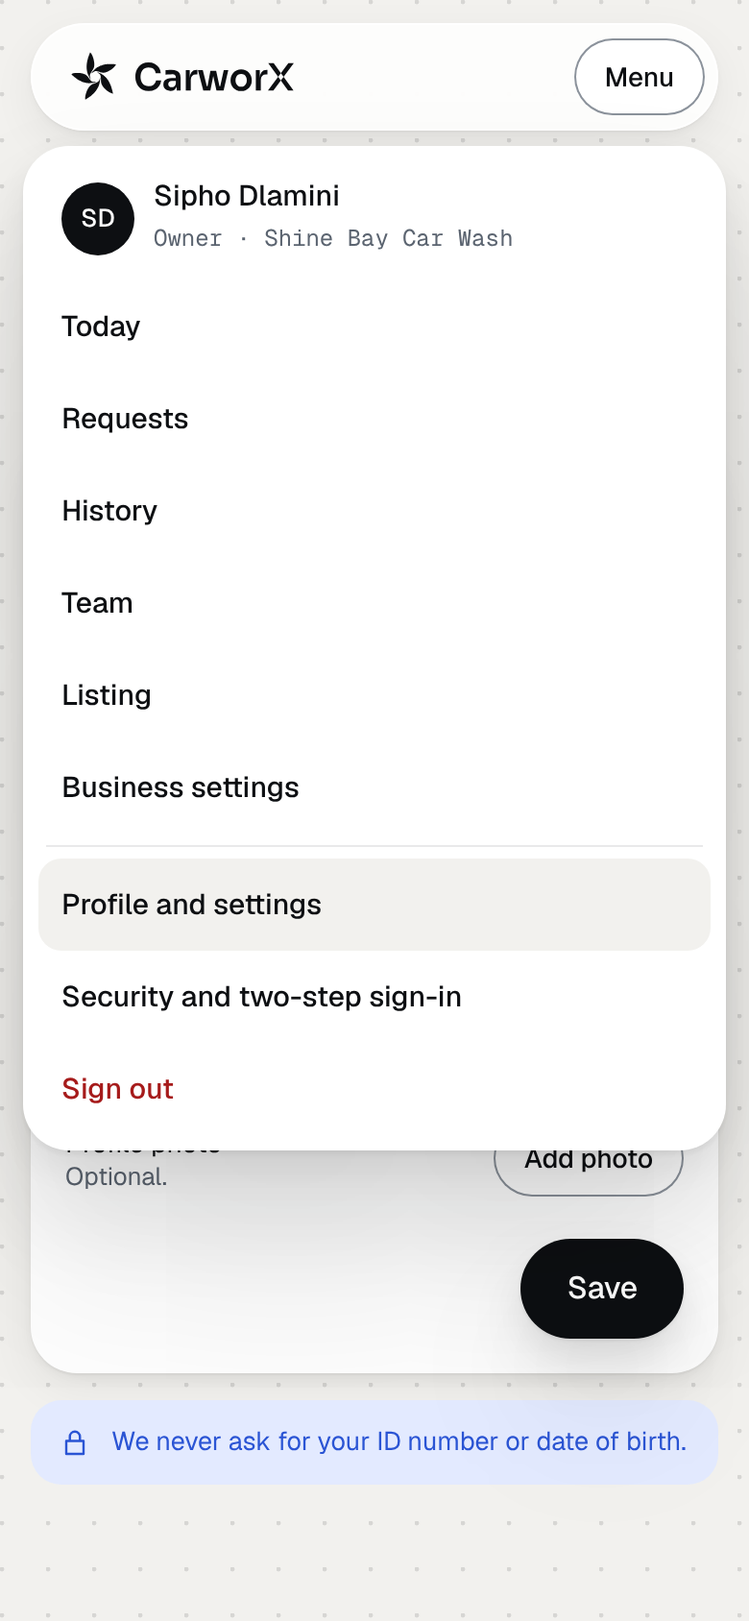
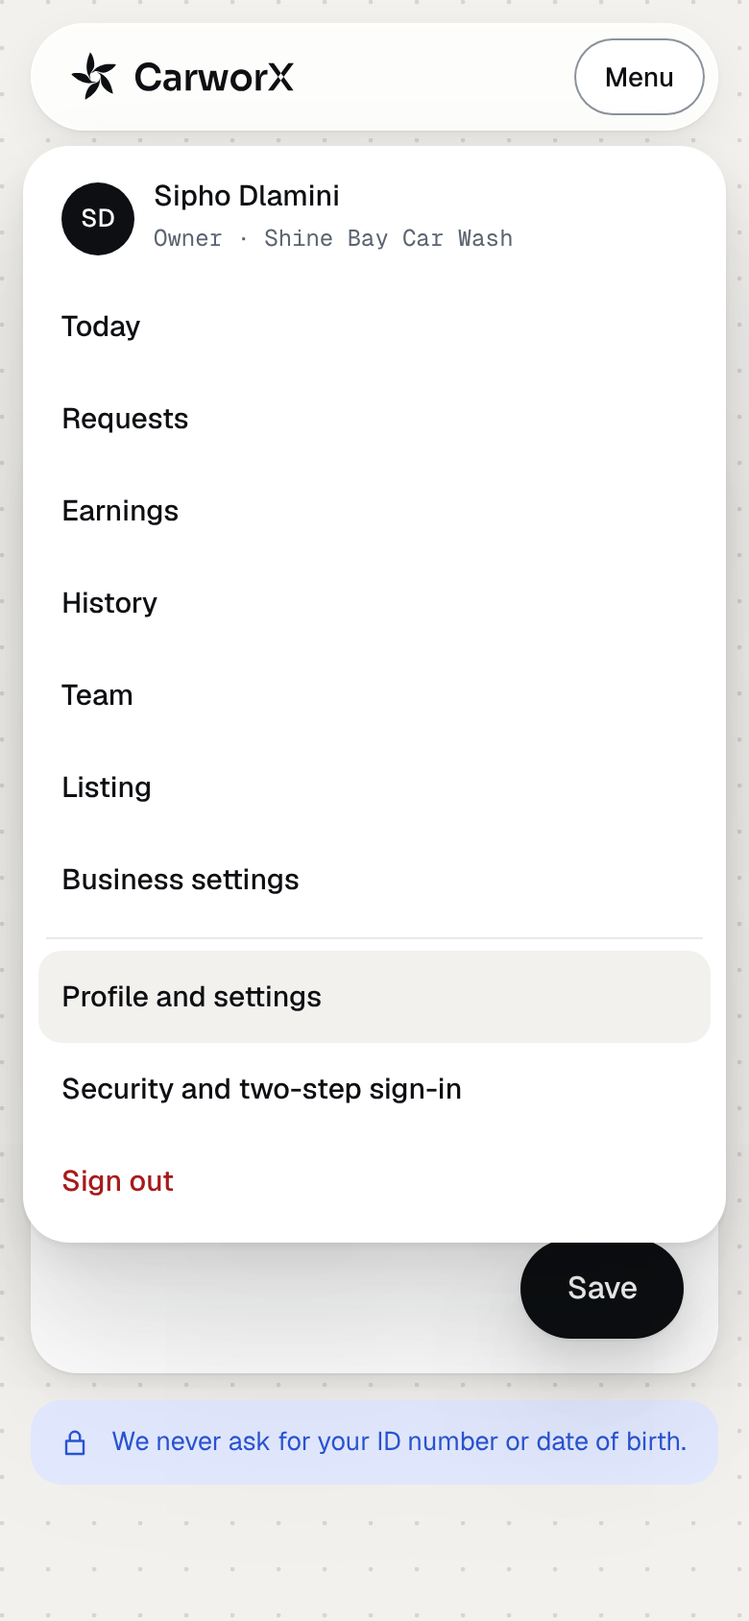
Add earnings for businesses and Money for admins
One shared money view: an all-time hero figure, a period filter bar
(past week, month, year, custom), stat tiles with the arrow, sign and
percentage change against the previous period of the same length, a
column chart with hover and keyboard tooltips and a table view, and
ranked breakdowns. Owners and managers get Earnings in the menu.
Admins get a Today glance and a Money page (booking value across
businesses, CarworX fees shown as R0 in the pilot, top businesses),
plus earnings on each business record. Synthetic data.

Agent: claude
Claude-Session: https://claude.ai/code/session_01Mv3uQScUEXqrnHEZgfxhwV

diff --git a/planning/design/onboarding/_shared/money.js b/planning/design/onboarding/_shared/money.js
@@ -1,0 +1,174 @@
+/* CarworX money view (prototype, synthetic data). One component for businesses and admins:
+ * an all-time hero figure, a period filter bar (past week / month / year / custom), stat
+ * tiles with the change against the previous period of the same length, a column chart
+ * with hover + keyboard tooltips and a table view, and ranked breakdown bars.
+ * Usage: MONEY.mount(el, { scope: "business" | "platform" | "one", name, seed }). */
+(() => {
+  const { esc } = window.OB;
+  const DAY = 864e5;
+  const TODAY = Date.UTC(2026, 10, 12); // 12 Nov 2026 (SAST date)
+  const START = Date.UTC(2024, 10, 12); // synthetic history starts two years back
+  const rand = (seed) => () => ((seed = (seed + 0x6d2b79f5) | 0), (((seed ^ (seed >>> 15)) * (1 | seed)) >>> 0) / 4294967296);
+  const R = (n) => "R" + Math.round(n).toLocaleString("en-ZA").replace(/,/g, " ");
+  const Rk = (n) => (n >= 1e6 ? `R${(n / 1e6).toFixed(n >= 1e7 ? 0 : 1)}m` : n >= 1e3 ? `R${Math.round(n / 1e3)}k` : R(n));
+  const N = (n) => Math.round(n).toLocaleString("en-ZA").replace(/,/g, " ");
+  const fmtD = (t, o) => new Date(t).toLocaleDateString("en-ZA", { timeZone: "UTC", ...o });
+
+  // Daily synthetic series: weekly rhythm, growth, noise. Platform = many businesses.
+  function series(scope, seed) {
+    const rnd = rand(seed);
+    const days = [];
+    const big = scope === "platform";
+    for (let t = START, i = 0; t <= TODAY; t += DAY, i++) {
+      const dow = new Date(t).getUTCDay();
+      const growth = 1 + (i / 730) * (big ? 1.6 : 0.45);
+      const week = [1.25, 0.7, 0.85, 0.9, 1, 1.15, 1.45][dow];
+      const avg = big ? 310 : 290;
+      const n = Math.max(0, Math.round((big ? 160 : 5.2) * growth * week * (0.75 + rnd() * 0.5)));
+      days.push({ t, n, v: n * avg * (0.85 + rnd() * 0.3), biz: big ? Math.round(18 + i * 0.16) : 0 });
+    }
+    return days;
+  }
+  const SPLIT = {
+    business: [["By service", [["Wash & Detailing", 0.71], ["Glass Repair & Replacement", 0.29]]], ["By team member", [["Lerato", 0.46], ["Thabo", 0.39], ["Sipho", 0.15]]]],
+    one: [["By service", [["Wash & Detailing", 0.71], ["Glass Repair & Replacement", 0.29]]]],
+    platform: [["Top businesses", [["Karoo Glass Fix", 0.09, "KG"], ["Pinetown Valet Co.", 0.075, "PV"], ["Shine Bay Car Wash", 0.06], ["Jacaranda Tyre & Align", 0.055], ["Kloof Detailing", 0.04]]], ["By service", [["Wash & Detailing", 0.38], ["Repairs & Maintenance", 0.27], ["Tyres & Wheel Alignment", 0.17], ["Glass Repair & Replacement", 0.12], ["Fines & Vehicle Admin", 0.06]]]],
+  };
+
+  function sum(days, a, b) {
+    let v = 0, n = 0, biz = 0;
+    for (const d of days) if (d.t >= a && d.t <= b) (v += d.v), (n += d.n), (biz = Math.max(biz, d.biz));
+    return { v, n, biz };
+  }
+  function range(p, from, to) {
+    if (p === "custom") {
+      const a = Date.parse(from + "T00:00:00Z"), b = Date.parse(to + "T00:00:00Z");
+      if (!(a <= b)) return null;
+      const len = b - a + DAY;
+      return { a, b, pa: a - len, pb: a - DAY, prev: "the previous period of the same length" };
+    }
+    const len = { week: 7, month: 30, year: 365 }[p] * DAY;
+    return { a: TODAY - len + DAY, b: TODAY, pa: TODAY - 2 * len + DAY, pb: TODAY - len, prev: `the previous ${p}` };
+  }
+  function buckets(days, a, b) {
+    const span = (b - a) / DAY + 1;
+    const unit = span <= 31 ? "day" : span <= 120 ? "week" : "month";
+    const out = [];
+    const key = (t) => {
+      if (unit === "day") return t;
+      if (unit === "week") return a + Math.floor((t - a) / (7 * DAY)) * 7 * DAY;
+      const d = new Date(t);
+      return Date.UTC(d.getUTCFullYear(), d.getUTCMonth(), 1);
+    };
+    for (const d of days) {
+      if (d.t < a || d.t > b) continue;
+      const k = key(d.t);
+      let bk = out.at(-1);
+      if (!bk || bk.k !== k) out.push((bk = { k, v: 0, n: 0, from: d.t, to: d.t }));
+      bk.v += d.v; bk.n += d.n; bk.to = d.t;
+    }
+    return { unit, out };
+  }
+  const delta = (cur, prev, prevLabel, money) => {
+    if (!prev) return `<p class="mn-delta flat"><span>New this period</span></p>`;
+    const p = ((cur - prev) / prev) * 100;
+    const up = p >= 0.05, down = p <= -0.05;
+    const arrow = up ? '<path d="M6 10V2M2.5 5.5 6 2l3.5 3.5"/>' : down ? '<path d="M6 2v8M2.5 6.5 6 10l3.5-3.5"/>' : '<path d="M2 6h8"/>';
+    return `<p class="mn-delta ${up ? "up" : down ? "down" : "flat"}"><span class="pill"><svg viewBox="0 0 12 12" aria-hidden="true">${arrow}</svg>${up ? "+" : down ? "−" : ""}${Math.abs(p).toFixed(1)}%</span><span class="vs">vs ${esc(prevLabel)} · ${money ? R(prev) : Math.round(prev).toLocaleString("en-ZA").replace(/,/g, " ")}</span><span class="cx-vh">${up ? "Up" : down ? "Down" : "No change"}</span></p>`;
+  };
+
+  function mount(el, cfg) {
+    const days = series(cfg.scope === "platform" ? "platform" : "business", cfg.seed || 7);
+    const plat = cfg.scope === "platform";
+    const state = { p: "month", from: "2026-10-01", to: "2026-10-31", table: false };
+    const all = sum(days, START, TODAY);
+    function render() {
+      const r = range(state.p, state.from, state.to);
+      const cur = r ? sum(days, r.a, r.b) : { v: 0, n: 0 };
+      const prev = r ? sum(days, r.pa, r.pb) : { v: 0, n: 0 };
+      const words = { week: "Past week", month: "Past month", year: "Past year", custom: "Custom" };
+      const tiles = plat
+        ? [["Booking value", R(cur.v), delta(cur.v, prev.v, r?.prev, true)], ["CarworX fees", "R0", `<p class="mn-delta flat"><span>Pilot fee is R0. Fees would show here.</span></p>`], ["Completed bookings", cur.n.toLocaleString("en-ZA").replace(/,/g, " "), delta(cur.n, prev.n, r?.prev)], ["Active businesses", String(cur.biz), delta(cur.biz, prev.biz, r?.prev)]]
+        : [["Earned", R(cur.v), delta(cur.v, prev.v, r?.prev, true)], ["Completed bookings", N(cur.n), delta(cur.n, prev.n, r?.prev)], ["Average booking", cur.n ? R(cur.v / cur.n) : "–", delta(cur.n ? cur.v / cur.n : 0, prev.n ? prev.v / prev.n : 0, r?.prev, true)]];
+      const bk = r ? buckets(days, r.a, r.b) : { unit: "day", out: [] };
+      el.innerHTML = `
+        <section class="mn-hero"><p class="cx-eyebrow">${plat ? "Booking value through CarworX, all time" : cfg.scope === "one" ? `${esc(cfg.name)} · earned on CarworX, all time` : "Earned on CarworX, all time"}</p>
+          <p class="mn-big">${R(all.v)}</p>
+          <p class="t-cap">${plat ? `${all.n.toLocaleString("en-ZA").replace(/,/g, " ")} completed bookings since ${fmtD(START, { day: "numeric", month: "long", year: "numeric" })}. Money goes straight to each business. CarworX fees: R0 during the pilot.` : `${all.n.toLocaleString("en-ZA").replace(/,/g, " ")} completed bookings since ${fmtD(START, { day: "numeric", month: "long", year: "numeric" })}. Paid straight to ${cfg.scope === "one" ? "the business" : "you"} through the payment partner; CarworX never holds it.`}</p></section>
+        <div class="mn-filters"><div class="ob-filterbar" role="group" aria-label="Period">${["week", "month", "year", "custom"].map((k) => `<button type="button" class="cx-chip" aria-pressed="${state.p === k}" data-mp="${k}">${words[k]}</button>`).join("")}</div>
+          ${state.p === "custom" ? `<div class="ob-scrollrow" role="group" aria-label="Custom period" style="gap:8px;align-items:end"><label class="mn-f">From<input class="ob-input" type="date" data-mfrom value="${state.from}" min="2024-11-12" max="2026-11-12"></label><label class="mn-f">To<input class="ob-input" type="date" data-mto value="${state.to}" min="2024-11-12" max="2026-11-12"></label></div>` : ""}
+          <p class="t-cap mn-range">${r ? `${fmtD(r.a, { day: "numeric", month: "short", year: "numeric" })} – ${fmtD(r.b, { day: "numeric", month: "short", year: "numeric" })} · compared with ${esc(r.prev)} (${fmtD(r.pa, { day: "numeric", month: "short" })} – ${fmtD(r.pb, { day: "numeric", month: "short", year: "numeric" })})` : "Pick a start date before the end date."}</p></div>
+        <div class="mn-kpis" style="--n:${tiles.length}">${tiles.map(([l, v, d]) => `<section class="mn-tile"><p class="mn-l">${l}</p><p class="mn-v">${v}</p>${d}</section>`).join("")}</div>
+        <section class="mn-card"><div class="mn-cardhead"><h3>${plat ? "Booking value" : "Earned"} per ${bk.unit}</h3><button type="button" class="ob-link" data-mtable>${state.table ? "Show as chart" : "Show as table"}</button></div>
+          <div class="mn-chart">${state.table ? table(bk) : chart(bk, plat)}</div></section>
+        <div class="mn-split">${SPLIT[plat ? "platform" : cfg.scope === "one" ? "one" : "business"].map(([t, parts]) => ranked(t, parts, cur.v, plat)).join("")}</div>`;
+      wire();
+    }
+    function chart({ unit, out }) {
+      if (!out.length) return '<p class="t-cap">No completed bookings in this period.</p>';
+      // Draw at the card's real width so axis text stays 11 px on phones too.
+      const W = Math.max(300, Math.round(el.clientWidth - 36)), H = W < 500 ? 200 : 240, L = 48, B = 26, T = 10;
+      const max = Math.max(...out.map((b) => b.v));
+      const step = [100, 200, 500, 1e3, 2e3, 5e3, 1e4, 2e4, 5e4, 1e5, 2e5, 5e5, 1e6, 2e6, 5e6].find((s) => max / s <= 4) || 1e7;
+      const top = Math.ceil(max / step) * step;
+      const y = (v) => T + (H - T - B) * (1 - v / top);
+      const slot = (W - L) / out.length;
+      const bw = Math.min(24, slot * 0.6);
+      const ticks = [];
+      for (let v = 0; v <= top; v += step) ticks.push(`<line x1="${L}" x2="${W}" y1="${y(v)}" y2="${y(v)}" class="g"/><text x="${L - 8}" y="${y(v) + 4}" text-anchor="end" class="ax">${Rk(v)}</text>`);
+      const lab = (b) => (unit === "month" ? fmtD(b.k, { month: "short" }) : unit === "week" ? fmtD(b.from, { day: "numeric", month: "short" }) : out.length > 10 ? fmtD(b.k, { day: "numeric" }) : fmtD(b.k, { weekday: "short" }));
+      const every = Math.ceil(out.length / Math.max(3, Math.floor((W - L) / 46)));
+      const bars = out.map((b, i) => {
+        const x = L + slot * i + (slot - bw) / 2, yy = y(b.v), h = H - B - yy, r = Math.min(4, h);
+        const when = unit === "day" ? fmtD(b.k, { weekday: "short", day: "numeric", month: "short", year: "numeric" }) : unit === "week" ? `Week of ${fmtD(b.from, { day: "numeric", month: "short" })}` : fmtD(b.k, { month: "long", year: "numeric" });
+        return `<g class="bar" tabindex="0" role="img" aria-label="${when}: ${R(b.v)}, ${b.n} bookings" data-tip="${esc(R(b.v))}|${esc(when)}|${b.n} booking${b.n === 1 ? "" : "s"}" data-x="${x + bw / 2}" data-y="${yy}">
+          <rect class="hit" x="${L + slot * i}" y="${T}" width="${slot}" height="${H - B - T}" rx="6"/>
+          <path class="col" d="M${x} ${H - B}V${yy + r}q0 -${r} ${r} -${r}h${bw - 2 * r}q${r} 0 ${r} ${r}V${H - B}Z"/>
+          ${i % every === 0 ? `<text x="${x + bw / 2}" y="${H - 8}" text-anchor="middle" class="ax">${lab(b)}</text>` : ""}</g>`;
+      }).join("");
+      return `<svg viewBox="0 0 ${W} ${H}" data-w="${W}" class="mn-svg" aria-label="${unit === "day" ? "Daily" : unit === "week" ? "Weekly" : "Monthly"} totals. Use Tab to step through the columns, or Show as table.">${ticks.join("")}<line x1="${L}" x2="${W}" y1="${H - B}" y2="${H - B}" class="base"/>${bars}</svg><div class="mn-tip" role="status" hidden></div>`;
+    }
+    function table({ unit, out }) {
+      return `<table class="mn-table"><thead><tr><th>${unit === "day" ? "Day" : unit === "week" ? "Week of" : "Month"}</th><th>Bookings</th><th>Value</th></tr></thead><tbody>${out.map((b) => `<tr><td>${unit === "month" ? fmtD(b.k, { month: "long", year: "numeric" }) : fmtD(b.from, { day: "numeric", month: "short", year: "numeric" })}</td><td>${b.n}</td><td>${R(b.v)}</td></tr>`).join("")}</tbody></table>`;
+    }
+    function ranked(title, parts, total, plat) {
+      const max = Math.max(...parts.map((p) => p[1]));
+      return `<section class="mn-card"><h3>${title}</h3><p class="t-cap">${plat && title === "Top businesses" ? "Share of booking value in this period. Open one to see its record." : "Share of this period."}</p><ul class="mn-rank">${parts.map(([n, s, id]) => {
+        const name = id ? `<a class="cx-link" href="#business=${id}">${esc(n)}</a>` : esc(n);
+        const share = plat && title === "Top businesses" ? s : s;
+        return `<li><span class="nm">${name}</span><span class="track"><i style="width:${(s / max) * 100}%"></i></span><span class="val">${R(total * share)}<small>${Math.round(share * 100)}%</small></span></li>`;
+      }).join("")}</ul></section>`;
+    }
+    function wire() {
+      el.querySelectorAll("[data-mp]").forEach((b) => (b.onclick = () => { state.p = b.dataset.mp; render(); el.querySelector(`[data-mp="${state.p}"]`).focus(); }));
+      el.querySelector("[data-mfrom]")?.addEventListener("change", (e) => { state.from = e.target.value; render(); });
+      el.querySelector("[data-mto]")?.addEventListener("change", (e) => { state.to = e.target.value; render(); });
+      el.querySelector("[data-mtable]").onclick = () => { state.table = !state.table; render(); };
+      const tip = el.querySelector(".mn-tip"), svg = el.querySelector(".mn-svg");
+      if (!tip) return;
+      const show = (g) => {
+        const [v, w, n] = g.dataset.tip.split("|");
+        tip.replaceChildren(Object.assign(document.createElement("b"), { textContent: v }), Object.assign(document.createElement("span"), { textContent: w }), Object.assign(document.createElement("small"), { textContent: n }));
+        const box = svg.getBoundingClientRect(), k = box.width / +svg.dataset.w;
+        tip.hidden = false;
+        tip.style.left = Math.min(box.width - 150, Math.max(0, g.dataset.x * k - 70)) + "px";
+        tip.style.top = Math.max(0, g.dataset.y * k - 64) + "px";
+        el.querySelectorAll(".bar.on").forEach((x) => x.classList.remove("on"));
+        g.classList.add("on");
+      };
+      el.querySelectorAll(".bar").forEach((g) => { g.addEventListener("pointerenter", () => show(g)); g.addEventListener("focus", () => show(g)); });
+      svg.addEventListener("pointerleave", () => { tip.hidden = true; el.querySelectorAll(".bar.on").forEach((x) => x.classList.remove("on")); });
+    }
+    render();
+    let rt;
+    window.addEventListener("resize", () => { clearTimeout(rt); rt = setTimeout(render, 150); });
+  }
+  // At-a-glance figure for dashboards: the value for a preset period and its change.
+  function glance(scope, seed, p = "month") {
+    const days = series(scope === "platform" ? "platform" : "business", seed);
+    const r = range(p);
+    const cur = sum(days, r.a, r.b), prev = sum(days, r.pa, r.pb);
+    return { value: R(cur.v), delta: delta(cur.v, prev.v, r.prev, true) };
+  }
+  window.MONEY = { mount, glance };
+})();

diff --git a/planning/design/onboarding/admin/index.html b/planning/design/onboarding/admin/index.html
@@ -14,6 +14,7 @@
 <main class="ad-main" data-view></main>
 <script src="../_shared/kit.js"></script>
 <script src="../_shared/shell.js"></script>
+<script src="../_shared/money.js"></script>
 <script>
   /* Admin console. Every admin route needs two-step sign-in (aal2, D-042); non-admins get a 404.
      Synthetic, fictional data; times in SAST. */
@@ -57,6 +58,7 @@
         <a class="ad-kpi" href="#claims"><b>2</b><small>Claims · 1 disputed</small></a>
         <a class="ad-kpi" href="#businesses"><b>1</b><small>Suspended</small></a>
         <a class="ad-kpi" href="#applications"><b>1</b><small>Sent back, waiting on the business</small></a></div>
+      <a class="ad-row" href="#money" style="grid-template-columns:1fr auto"><span style="display:grid;gap:4px"><small>Booking value, past month · all businesses</small><b style="font:500 26px/30px var(--font-sans);letter-spacing:-.03em" data-glance></b><span data-glance-d></span></span><span class="r" style="grid-column:auto"><span>Open Money</span></span></a>
       <div class="ad-split"><section class="ad-box"><h2>Next up</h2><div class="ad-rows">
         ${CLAIMS.filter((c) => c.st === "Disputed").map((c) => row(`claim.html?claim=${c.id}`, c.ini, c.name, `Claim by ${c.by} · ${c.how}`, c.st, c.since)).join("")}
         ${APPS.filter((a) => a.st === "Waiting").sort((a, b) => (a.since > b.since ? 1 : -1)).map((a) => row(`review.html?app=${a.id}`, a.ini, a.name, `${a.where} · ${a.mode}`, a.st, a.since)).join("")}</div></section>
@@ -72,8 +74,10 @@
           <label class="field" style="display:grid;gap:6px;font:500 13px var(--font-sans)">Reason (kept in the decision record)<input class="ob-input" data-reason placeholder="${sus ? "For example, duplicate removed" : "For example, duplicate of another listing"}"></label>
           <p class="ob-err" role="alert" data-reason-err></p>
           <div><button type="button" class="cx-btn ${sus ? "primary" : "outlined"} sm" data-suspend="${b.id}">${sus ? "Restore" : "Suspend"}</button></div></section></div>
+      <section class="ad-box" style="background:transparent;box-shadow:none;padding:0"><h2>Earnings</h2><div data-money-one></div></section>
       <section class="ad-box"><h2>People with access</h2><ul class="ob-checks">${b.people.map(([n, r]) => `<li><span class="sh-av" style="width:32px;height:32px;font-size:12px">${n.split(" ").map((w) => w[0]).join("")}</span>${esc(n)} · ${r}<small><button type="button" class="ob-link" style="font-size:13px">Remove access</button></small></li>`).join("")}</ul><p class="t-cap">Removing access is recorded. Use it for former staff, or when a claim moves control.</p></section>
       <section class="ad-box"><h2>Decisions</h2><div class="ad-rows">${AUDIT.filter((x) => x[3].includes(b.name)).map(log).join("") || '<p class="t-cap">Approved 9 Nov 2026, 09:40 SAST by Naledi Dube · Site visit</p>'}</div></section>`; },
+    money: () => head("Admin", "Money", "Booking value across every business, at a glance. Money goes straight to businesses; CarworX fees are R0 in the pilot.") + `<div data-money-platform></div>`,
     audit: () => head("Admin", "Audit log", "Every admin decision and sign-in, and every dispute. Read-only: entries can't be edited or deleted.") + bar("audit", ["All", "Applications", "Claims", "Disputes", "Suspensions", "Access", "Admin sign-ins"]) + more(true) + `<div class="ad-rows">${AUDIT.filter((x) => !filt.audit || filt.audit === "All" || x[1] === filt.audit).map(log).join("") || empty()}</div>`,
   };
   function row(href, ini, name, sub, st, right) {
@@ -90,7 +94,10 @@
     const nav = view === "business" ? "businesses" : view;
     if (mounted !== nav) { SHELL.mount(document.querySelector("[data-shell]"), { role: "admin", current: nav }); mounted = nav; }
     document.querySelector("[data-view]").innerHTML = (V[view] || V.today)(arg);
-    document.title = `${{ today: "Today", applications: "Applications", claims: "Claims", businesses: "Businesses", business: "Business", audit: "Audit log" }[view] || "Today"} · CarworX admin (prototype)`;
+    const gl = document.querySelector("[data-glance]"); if (gl) { const g = MONEY.glance("platform", 3); gl.textContent = g.value; document.querySelector("[data-glance-d]").innerHTML = g.delta; }
+    const mp = document.querySelector("[data-money-platform]"); if (mp) MONEY.mount(mp, { scope: "platform", seed: 3 });
+    const mo = document.querySelector("[data-money-one]"); if (mo) { const b = BIZ.find((x) => x.id === arg) || BIZ[0]; MONEY.mount(mo, { scope: "one", name: b.name, seed: b.id.charCodeAt(0) + b.id.charCodeAt(1) }); }
+    document.title = `${{ today: "Today", applications: "Applications", claims: "Claims", businesses: "Businesses", business: "Business", money: "Money", audit: "Audit log" }[view] || "Today"} · CarworX admin (prototype)`;
   }
   window.addEventListener("hashchange", () => { render(); scrollTo(0, 0); });
   document.addEventListener("click", (e) => {

diff --git a/planning/design/onboarding/_shared/kit.css b/planning/design/onboarding/_shared/kit.css
@@ -1190,3 +1190,57 @@ button.ob-tile {
   background: var(--blue);
   box-shadow: 0 0 0 3px var(--surface);
 }
+
+/* ---------- money view (money.js) ---------- */
+.mn-hero { display: grid; gap: 4px; padding: 20px; border-radius: var(--radius-xl); background: var(--surface); box-shadow: var(--sh-1); }
+.mn-big { font: 300 56px/60px var(--font-sans); letter-spacing: -0.05em; color: var(--ink); }
+.mn-filters { display: grid; gap: 8px; }
+.mn-f { display: grid; gap: 4px; font: 500 12px var(--font-sans); color: var(--muted); }
+.mn-f .ob-input { width: auto; min-height: 44px; font-size: 14px; }
+.mn-range { margin-left: 4px; }
+.mn-kpis { display: grid; grid-template-columns: repeat(var(--n), minmax(0, 1fr)); gap: 10px; }
+.mn-tile { display: grid; gap: 6px; align-content: start; padding: 16px; border-radius: var(--radius-lg); background: var(--surface); box-shadow: var(--sh-1); }
+.mn-l { font: 500 13px var(--font-sans); color: var(--muted); }
+.mn-v { font: 500 30px/34px var(--font-sans); letter-spacing: -0.03em; color: var(--ink); }
+.mn-delta { display: flex; flex-wrap: wrap; gap: 4px 8px; align-items: center; font: 400 12px/16px var(--font-sans); color: var(--muted); }
+.mn-delta .pill { display: inline-flex; align-items: center; gap: 3px; padding: 2px 8px 2px 6px; border-radius: var(--radius-pill); font: 500 13px var(--font-sans); }
+.mn-delta .pill svg { width: 12px; height: 12px; fill: none; stroke: currentColor; stroke-width: 1.8; stroke-linecap: round; stroke-linejoin: round; }
+.mn-delta.up .pill { background: var(--ok-bg); color: var(--ok); }
+.mn-delta.down .pill { background: var(--err-bg); color: var(--err); }
+.mn-delta.flat .pill { background: var(--canvas); color: var(--muted); }
+.mn-card { position: relative; display: grid; gap: 10px; padding: 18px; border-radius: var(--radius-lg); background: var(--surface); box-shadow: var(--sh-1); }
+.mn-card h3 { font: 500 16px var(--font-sans); letter-spacing: -0.01em; }
+.mn-cardhead { display: flex; justify-content: space-between; align-items: center; gap: 12px; }
+.mn-chart { position: relative; }
+.mn-svg { display: block; width: 100%; height: auto; overflow: visible; }
+.mn-svg .g { stroke: var(--hair); stroke-width: 1; }
+.mn-svg .base { stroke: var(--line); stroke-width: 1; }
+.mn-svg .ax { font: 500 11px var(--font-mono); fill: var(--muted); }
+.mn-svg .col { fill: var(--blue); transition: opacity 0.15s; }
+.mn-svg .hit { fill: transparent; }
+.mn-svg .bar { outline: none; cursor: default; }
+.mn-svg .bar.on .col, .mn-svg .bar:focus-visible .col { fill: var(--blue-ink); }
+.mn-svg .bar:focus-visible .hit { stroke: var(--ink); stroke-width: 1.5; fill: rgba(13, 15, 18, 0.03); }
+.mn-tip { position: absolute; z-index: 5; display: grid; gap: 1px; min-width: 140px; padding: 8px 10px; border-radius: var(--radius-sm); background: var(--surface); box-shadow: var(--sh-2); pointer-events: none; }
+.mn-tip b { font: 500 16px var(--font-sans); color: var(--ink); }
+.mn-tip span, .mn-tip small { font: 400 12px var(--font-sans); color: var(--muted); }
+.mn-table { width: 100%; border-collapse: collapse; font: 400 14px var(--font-sans); }
+.mn-table th, .mn-table td { padding: 8px 6px; border-top: 1px solid var(--hair); text-align: right; }
+.mn-table th:first-child, .mn-table td:first-child { text-align: left; }
+.mn-table thead th { border-top: 0; font: 500 12px var(--font-mono); color: var(--muted); letter-spacing: 0.06em; text-transform: uppercase; }
+.mn-split { display: grid; grid-template-columns: 1fr 1fr; gap: 14px; align-items: start; }
+.mn-rank { list-style: none; padding: 0; display: grid; gap: 12px; }
+.mn-rank li { display: grid; grid-template-columns: minmax(120px, 1.1fr) 2fr auto; gap: 12px; align-items: center; font: 400 14px var(--font-sans); }
+.mn-rank .track { height: 12px; border-radius: var(--radius-pill); background: var(--sky); overflow: hidden; }
+.mn-rank .track i { display: block; height: 100%; border-radius: var(--radius-pill); background: var(--blue); }
+.mn-rank .val { font: 500 14px var(--font-sans); text-align: right; white-space: nowrap; }
+.mn-rank .val small { display: block; font: 400 12px var(--font-mono); color: var(--muted); }
+@media (max-width: 760px) {
+  .mn-big { font-size: 42px; line-height: 46px; }
+  .mn-kpis { grid-template-columns: repeat(2, minmax(0, 1fr)); }
+  .mn-kpis .mn-tile:first-child { grid-column: 1 / -1; }
+  .mn-split { grid-template-columns: 1fr; }
+  .mn-rank li { grid-template-columns: 1fr auto; }
+  .mn-rank .track { grid-column: 1 / -1; grid-row: 2; }
+  .mn-v { font-size: 26px; line-height: 30px; }
+}

diff --git a/planning/design/onboarding/index.html b/planning/design/onboarding/index.html
@@ -52,7 +52,7 @@
     <div class="info"><h2 id="h-admin">CarworX admins · review, claims, businesses, audit</h2>
       <p>The locked design language applied to admin work: a guided review with the rail and gliding bar, filter bars, the audit log, and two-step sign-in required for every admin.</p>
       <div class="strip"><a href="admin/shots/12-today.png"><img src="admin/shots/12-today.png" alt="Admin today" loading="lazy"></a><a href="admin/shots/13-applications.png"><img src="admin/shots/13-applications.png" alt="Applications" loading="lazy"></a><a href="admin/shots/03-review-checks.png"><img src="admin/shots/03-review-checks.png" alt="Review: checks" loading="lazy"></a><a href="admin/shots/06-review-location-mobile-A10.png"><img src="admin/shots/06-review-location-mobile-A10.png" alt="Review: private base" loading="lazy"></a><a href="admin/shots/09-claim-dispute.png"><img src="admin/shots/09-claim-dispute.png" alt="Claim with dispute" loading="lazy"></a><a href="admin/shots/16-business-suspended.png"><img src="admin/shots/16-business-suspended.png" alt="Business record" loading="lazy"></a><a href="admin/shots/17-audit.png"><img src="admin/shots/17-audit.png" alt="Audit log" loading="lazy"></a></div>
-      <div style="display:flex;gap:8px;flex-wrap:wrap"><a class="cx-btn primary sm" href="admin/index.html">Open the admin console</a><a class="cx-btn outlined sm" href="admin/review.html">Review an application</a><a class="cx-btn outlined sm" href="admin/claim.html?claim=doc">Review a claim</a><a class="cx-btn outlined sm" href="admin/README.md">Admin notes</a></div></div>
+      <div style="display:flex;gap:8px;flex-wrap:wrap"><a class="cx-btn primary sm" href="admin/index.html">Open the admin console</a><a class="cx-btn outlined sm" href="admin/review.html">Review an application</a><a class="cx-btn outlined sm" href="admin/claim.html?claim=doc">Review a claim</a><a class="cx-btn outlined sm" href="admin/index.html#money">Admin money</a><a class="cx-btn outlined sm" href="earnings/index.html">Business earnings</a><a class="cx-btn outlined sm" href="admin/README.md">Admin notes</a></div></div>
   </section>
   <section class="rec" aria-labelledby="rec">
     <h2 id="rec">Owner direction: 5 as the frame, 2 inside the tasks, 3's live card throughout</h2>

diff --git a/planning/design/onboarding/_shared/shell.js b/planning/design/onboarding/_shared/shell.js
@@ -14,9 +14,9 @@
   const LINKS = {
     driver: [["Find a service", "#search"], ["Bookings", "#bookings"], ["History", "#history"]],
     staff: [["Today", "#today"], ["Requests", "#requests"], ["History", H("history/index.html?as=staff"), "history"]],
-    manager: [["Today", "#today"], ["Requests", "#requests"], ["History", H("history/index.html?as=manager"), "history"], ["Team", "#team"], ["Listing", "#listing"]],
-    admin: [["Today", H("admin/index.html#today"), "today"], ["Applications", H("admin/index.html#applications"), "applications"], ["Claims", H("admin/index.html#claims"), "claims"], ["Businesses", H("admin/index.html#businesses"), "businesses"], ["Audit log", H("admin/index.html#audit"), "audit"]],
-    owner: [["Today", "#today"], ["Requests", "#requests"], ["History", H("history/index.html?as=owner"), "history"], ["Team", "#team"], ["Listing", "#listing"], ["Business settings", H("account/index.html?as=owner&tab=business"), "business"]],
+    manager: [["Today", "#today"], ["Requests", "#requests"], ["Earnings", H("earnings/index.html?as=manager"), "earnings"], ["History", H("history/index.html?as=manager"), "history"], ["Team", "#team"], ["Listing", "#listing"]],
+    admin: [["Today", H("admin/index.html#today"), "today"], ["Applications", H("admin/index.html#applications"), "applications"], ["Claims", H("admin/index.html#claims"), "claims"], ["Businesses", H("admin/index.html#businesses"), "businesses"], ["Money", H("admin/index.html#money"), "money"], ["Audit log", H("admin/index.html#audit"), "audit"]],
+    owner: [["Today", "#today"], ["Requests", "#requests"], ["Earnings", H("earnings/index.html?as=owner"), "earnings"], ["History", H("history/index.html?as=owner"), "history"], ["Team", "#team"], ["Listing", "#listing"], ["Business settings", H("account/index.html?as=owner&tab=business"), "business"]],
   };
   const acct = (role) => [
     ["Profile and settings", H(`account/index.html?as=${role}&tab=profile`), "profile"],

diff --git a/planning/design/onboarding/earnings/index.html b/planning/design/onboarding/earnings/index.html
@@ -1,0 +1,31 @@
+<!doctype html>
+<html lang="en-ZA">
+<head>
+<meta charset="utf-8">
+<meta name="viewport" content="width=device-width, initial-scale=1">
+<title>Earnings · CarworX business (prototype)</title>
+<link rel="stylesheet" href="../_shared/tokens.css">
+<link rel="stylesheet" href="../_shared/studio.css">
+<link rel="stylesheet" href="../_shared/kit.css">
+<style>
+  main { max-width: 1120px; margin: 0 auto; padding: 20px 16px 80px; display: grid; gap: 16px; }
+  .head h1 { font: 500 40px/44px var(--font-sans); letter-spacing: -.035em; }
+  @media (max-width: 640px) { .head h1 { font-size: 30px; line-height: 34px; } }
+</style>
+</head>
+<body class="cx-canvas">
+<div data-shell></div>
+<main>
+  <div class="head"><p class="cx-eyebrow">Shine Bay Car Wash</p><h1>Earnings</h1><p class="t-cap" style="margin-top:4px">Owners and managers see this. Prototype: synthetic data, as if bookings had been running since November 2024.</p></div>
+  <div data-money></div>
+</main>
+<script src="../_shared/kit.js"></script>
+<script src="../_shared/shell.js"></script>
+<script src="../_shared/money.js"></script>
+<script>
+  const as = new URLSearchParams(location.search).get("as") === "manager" ? "manager" : "owner";
+  SHELL.mount(document.querySelector("[data-shell]"), { role: as, current: "earnings" });
+  MONEY.mount(document.querySelector("[data-money]"), { scope: "business", seed: 11 });
+</script>
+</body>
+</html>

diff --git a/planning/design/onboarding/NOTES.md b/planning/design/onboarding/NOTES.md
@@ -146,3 +146,21 @@ For review, the role is set in the address only: `account/index.html?as=driver|s
 4. **Email fallback.** If someone has trouble with their authenticator app, they can get a sign-in code **by email** instead (`account/sign-in.html`: "Trouble with your app? Email me a code instead"). The setup's last step is now "Your backup": email backup on, with recovery codes optional.
 
 *Security trade-off for the build plan:* if the password reset also goes to the same email, an email code makes the second step only as strong as the email account. Mitigations to consider: email codes only after the correct password, 10-minute single-use codes with rate limits, and an email alert "someone signed in with an email code". Supabase Auth's MFA factors are TOTP and phone, so the email code is custom work (for example the existing email OTP, used as a step-up).
+
+## Money: earnings for businesses, Money for admins (owner, 2026-11-12, SAST)
+
+One shared component (`_shared/money.js`, styles in `kit.css`), designed with the dataviz method: stat tiles for the figures, a column chart for change over time, ranked bars for breakdowns, and a table view.
+- **At a glance:** an all-time hero figure ("Earned on CarworX, all time"; for admins, "Booking value through CarworX, all time").
+- **Period:** one filter bar above everything: **Past week · Past month · Past year · Custom** (calendar From and To). Every tile, the chart and the breakdowns use the same period, so the numbers always agree. A reversed custom range is caught.
+- **Change vs the previous period of the same length:** past week vs the 7 days before it, past month vs the previous 30 days, past year vs the previous 365 days, custom vs the same length just before. Each tile shows an **arrow, a sign and a percentage** (green up, red down, grey no change), so it is never colour alone, plus the previous value. With nothing in the previous period it says "New this period".
+- **Chart:** columns per day (31 days or fewer), per week (120 days or fewer) or per month, drawn at the card's real width. Every column has a hover **and keyboard** tooltip (value first, then date and bookings). "Show as table" gives the same numbers without the chart. Studio blue passes the palette validator against both the surface and the canvas.
+
+| Who | Where | What they see |
+|---|---|---|
+| Owner, manager | Menu → **Earnings** ([`earnings/`](earnings/index.html)) | Earned, completed bookings, average booking (each with its change); earned per day, week or month; by service; by team member |
+| CarworX admin | Today: past-month booking value with its change → **Money** ([`admin/#money`](admin/index.html#money)) | Booking value, **CarworX fees (R0 in the pilot)**, completed bookings, active businesses (with changes); booking value over time; top businesses (open one to see its record); by service category |
+| CarworX admin | A business's record ([`admin/#business=KG`](admin/index.html#business=KG)) | That business's earnings, same period controls |
+
+*Honest framing:* money goes straight to each business through the payment partner, and CarworX never holds it. So "how much CarworX has made" is its **fees**, which are R0 during the pilot. The admin view therefore leads with **booking value** (the total customers paid businesses) and shows fees separately. The figures need bookings and the payment partner's records (Phase 3); the prototype uses synthetic data as if bookings had run since November 2024.
+
+*For the owner to confirm:* staff don't see Earnings (only owners and managers do).

diff --git a/planning/design/onboarding/admin/README.md b/planning/design/onboarding/admin/README.md
@@ -5,6 +5,7 @@
 | Screen | File | What it does |
 |---|---|---|
 | Console | [`index.html`](index.html) | **Today** (waiting counts, oldest first, your recent decisions), **Applications** (filter bar: Waiting, Sent back, Approved, All), **Claims** (Waiting, Disputed, Decided, All), **Businesses** (Live, Suspended, All), each business's **record** (labels, suspend or restore with a required reason, people with access and Remove access, decisions), and the **Audit log** (filters by type, dates and admin; Download CSV; read-only) |
+| Money | [`index.html#money`](index.html#money) | Booking value across every business at a glance, CarworX fees (R0 in the pilot), completed bookings and active businesses, each with the change against the previous period (week, month, year, custom); top businesses; by service. Each business record also shows its own earnings. Details in [`../NOTES.md`](../NOTES.md) |
 | Review an application | [`review.html`](review.html) `?app=shine\|mzansi\|jacaranda` | Business → Location → Checks → Decision → Confirm, on the rail and the gliding bar. **Checks** uses the five D-023 methods (phone call, video call, documents checked, business registry checked, site visit) and the three Claude 17 §3 labels. An **evidence reference** is required as soon as any label is ticked; it never holds an ID number or the document. "Premises visited" is disabled for mobile-only businesses. **Decision:** approve and publish, or send back with reasons the business sees (plus an optional note). **Confirm:** "I checked this myself" switch; the decision is saved to the audit log with the admin's name and time |
 | Review a claim | [`claim.html`](claim.html) `?claim=email\|doc` | Claim → Evidence → Current access → Decision → Confirm. Business email shows the domain match (free-mail domains are refused); a document claim shows type and date only (nothing uploaded). Current access shows who controls it now and any **open dispute**. Decide: transfer control (with method and an optional note) or reject or keep the current owner (with a required reason) |
 | Admin settings and sign-in | [`../account/index.html?as=admin&tab=security`](../account/index.html?as=admin&tab=security), [`../account/sign-in.html?admin=1`](../account/sign-in.html?admin=1) | Two-step sign-in **required for every admin** (D-042, enforced on the server; admin pages won't open without it) and can't be turned off. Admin notifications: a morning summary at 07:30 SAST, and new disputes as they come in |
